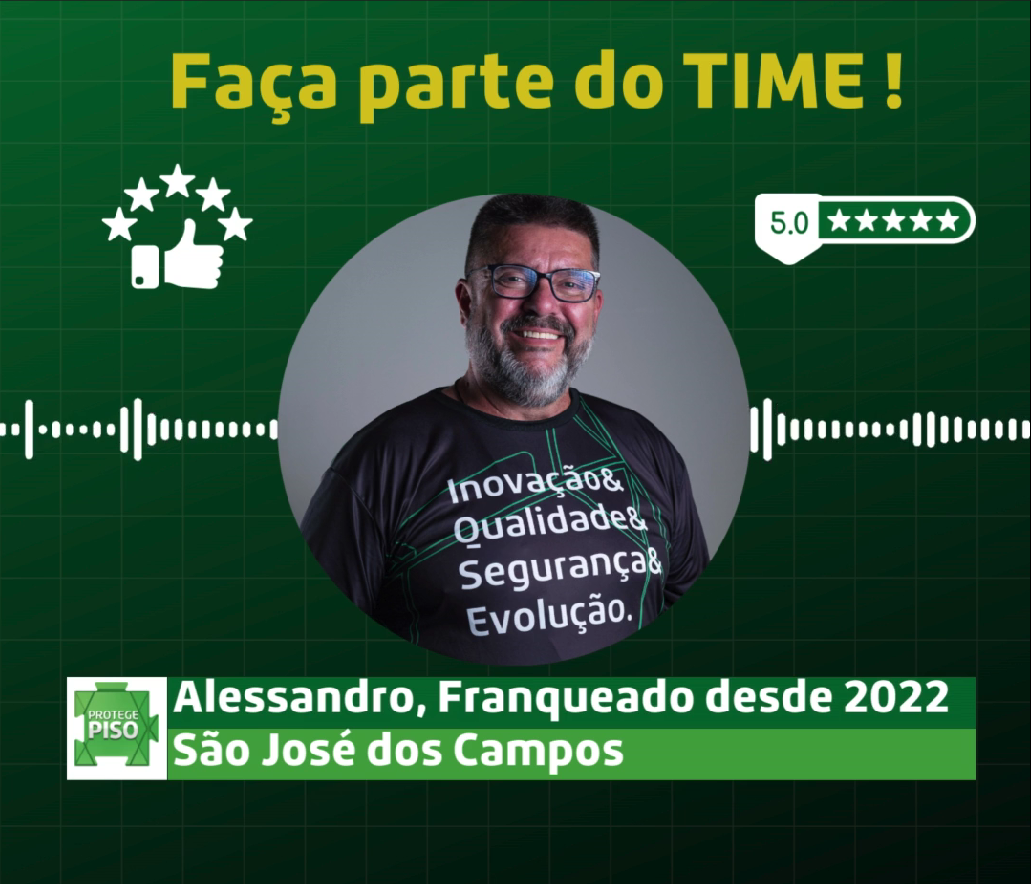
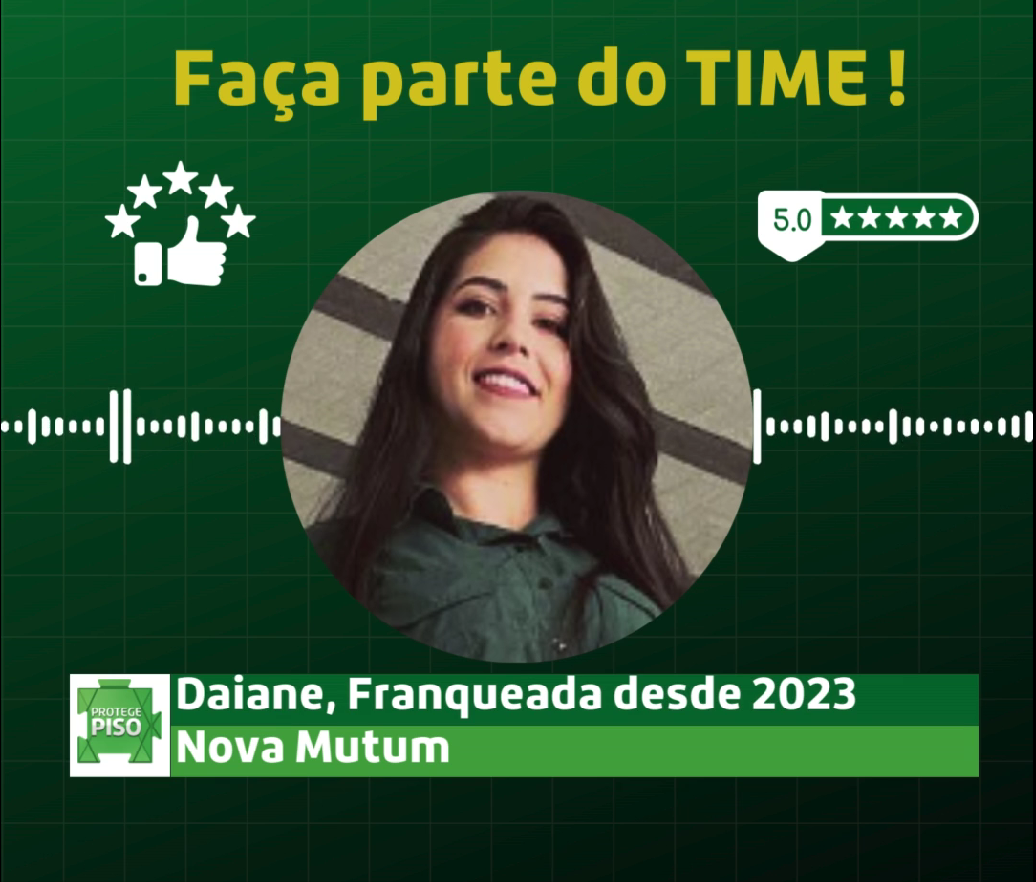
first commit nova mutum

diff --git a/index.html b/index.html
@@ -5,7 +5,7 @@
     <meta charset="UTF-8">
     <meta name="viewport" content="width=device-width, initial-scale=1.0">
     <meta name="Landing Page" content="Website da franquia da protege piso de Palmas">
-    <title>Protege Piso São José dos Campos</title>
+    <title>Protege Piso Nova Mutum</title>
     <link rel="stylesheet" href="styles.css">
     <link rel="stylesheet" href="https://cdn.jsdelivr.net/npm/glider-js@1/glider.min.css">
     <script src="https://cdn.jsdelivr.net/npm/glider-js@1/glider.min.js"></script>
@@ -32,7 +32,7 @@
                 <div class="navbar-container">
                     <a href="#" class="logo">
                         <img src="./images/logoprotege.png" alt="Logo da protege piso">
-                        <h3>São José dos Campos</h3>
+                        <h3>Nova Mutum</h3>
                     </a>
 
                     <div class="menu-toggle" id="mobile-menu" onclick="toggleMenu()">
@@ -46,7 +46,7 @@
                         <li class="nav-item"><a href="#Informacoes" class="nav-link">Informações</a></li>
                         <li class="nav-item"><a href="#" class="nav-link" id="openChatBtn">Seja um franqueado</a></li>
                         <li class="nav-item">
-                            <a href="https://api.whatsapp.com/send?phone=556392393356" target="_blank">
+                            <a href="https://api.whatsapp.com/send?phone=551639113911" target="_blank">
                                 <img src="images/icone_whatsapp.png" alt="icone logo whatsapp" class="whatsapp-icon-nav"
                                     style="margin-right: 10px;">
                             </a>
@@ -173,7 +173,7 @@
             </p>
         </div>
         <div class="container-iframe">
-            <iframe src="https://app.ketzim.com/webservice/mapa/saojosedoscampos/" class="iframe-full" title="Mapa das obras realizadas na cidade da franquia"></iframe>
+            <iframe src="https://app.ketzim.com/webservice/mapa/novamutum/" class="iframe-full" title="Mapa das obras realizadas na cidade da franquia"></iframe>
         </div>
     </section>
 
@@ -186,7 +186,7 @@
                 <p id="followers"></p>
                 <p id="posts"></p>
             </div>
-            <a href="https://www.instagram.com/protegepisosjc/" target="_blank"><button type="button"
+            <a href="https://www.instagram.com/protegepisonovamutum/" target="_blank"><button type="button"
                     class="botao-seguir">Seguir</button></a>
         </div>
         <div class="glider-contain-custom">
@@ -198,7 +198,7 @@
     </section>
 
     <section class="container-quem-somos" id="QuemSomos">
-        <h3>EM SÃO JOSÉ DOS CAMPOS DESDE 2022</h3>
+        <h3>EM NOVA MUTUM DESDE 2023</h3>
         <img src="images/na_cidade_desde.PNG" class="imagem-quem-somos" alt="imagem do franqueado">
     </section>
 
@@ -211,18 +211,18 @@
             <h5>Franquia</h5>
             <p>palmas@protegepiso.com.br</p>
             <div class="item-rodape">
-                <a href="https://api.whatsapp.com/send?phone=5512981012640" target="_blank">
+                <a href="https://api.whatsapp.com/send?phone=5565999662466" target="_blank">
                     <img src="images/icone_whatsapp.png" alt="icone logo whatsapp"
                         class="rodape-informacoes-icone-whatsapp">
                 </a>
-                <p>(12) 98101-2640</p>
+                <p>(65) 99966-2466</p>
             </div>
             <div class="item-rodape">
-                <a href="https://www.instagram.com/protegepisosjc/" target="_blank">
+                <a href="https://www.instagram.com/protegepisonovamutum/" target="_blank">
                     <img src="images/icone_instagram.png" alt="icone logo instagram"
                         class="rodape-informacoes-icone-instagram">
                 </a>
-                <p>@protegepisosjc
+                <p>@protegepisonovamutum
                 </p>
             </div>
         </div>

diff --git a/index.js b/index.js
@@ -39,7 +39,7 @@ function toggleMenu() {
     menu.classList.toggle('active');
 }
 
-const apiUrl = 'https://app.ketzim.com/webservice/get-instagram-info/SaoJoseDosCampos/?Token=Ld7gRCo9JtIRw0Ub3sC3JxuCgIMvSAzJEMLSutCPh9XosGzzqpdlhsqhUYXHHRyHKPZ6MHcwfl8Dl7ohzsKv7jpihquxHvFmEkFJ';
+const apiUrl = 'https://app.ketzim.com/webservice/get-instagram-info/ProtegePisoNovaMutum/?Token=Ld7gRCo9JtIRw0Ub3sC3JxuCgIMvSAzJEMLSutCPh9XosGzzqpdlhsqhUYXHHRyHKPZ6MHcwfl8Dl7ohzsKv7jpihquxHvFmEkFJ';
 
 function displayUserProfile(profile) {
     document.getElementById('profile-picture').src = profile.profile_picture_url;
